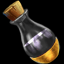
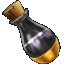
User can drag and drop inventory items

diff --git a/Client/core/src/pl/mmorpg/prototype/client/states/PlayState.java b/Client/core/src/pl/mmorpg/prototype/client/states/PlayState.java
@@ -21,7 +21,9 @@ import pl.mmorpg.prototype.client.input.InputProcessorAdapter;
 import pl.mmorpg.prototype.client.input.NullInputHandler;
 import pl.mmorpg.prototype.client.input.PlayInputContinuousHandler;
 import pl.mmorpg.prototype.client.input.PlayInputSingleHandle;
+import pl.mmorpg.prototype.client.items.Item;
 import pl.mmorpg.prototype.client.items.SmallHealthPotion;
+import pl.mmorpg.prototype.client.items.SmallManaPotion;
 import pl.mmorpg.prototype.client.objects.GameObject;
 import pl.mmorpg.prototype.client.objects.Player;
 import pl.mmorpg.prototype.client.resources.Assets;
@@ -29,6 +31,7 @@ import pl.mmorpg.prototype.client.states.dialogs.CustomDialogs;
 import pl.mmorpg.prototype.client.states.dialogs.InventoryDialog;
 import pl.mmorpg.prototype.client.states.dialogs.MenuDialog;
 import pl.mmorpg.prototype.client.states.dialogs.StatisticsDialog;
+import pl.mmorpg.prototype.client.states.dialogs.components.InventoryField;
 import pl.mmorpg.prototype.clientservercommon.packets.DisconnectPacket;
 import pl.mmorpg.prototype.clientservercommon.packets.entities.UserCharacterDataPacket;
 
@@ -46,6 +49,8 @@ public class PlayState implements State, GameObjectsContainer
 	private final InventoryDialog inventoryDialog = new InventoryDialog(this);
 	private StatisticsDialog statisticsDialog;
 	private final DialogManipulator dialogs = new DialogManipulator();
+	
+	private Item mouseHoldingItem = null;
 
 	private Dialog lastActiveDialog;
 
@@ -57,6 +62,7 @@ public class PlayState implements State, GameObjectsContainer
 		inputMultiplexer = new InputMultiplexer();
 		lastActiveDialog = inventoryDialog;
 		inventoryDialog.put(new SmallHealthPotion(), new Point(0, 0));
+		inventoryDialog.put(new SmallManaPotion(), new Point(0, 2));
 	}
 
 	public void initialize(UserCharacterDataPacket character)
@@ -94,8 +100,11 @@ public class PlayState implements State, GameObjectsContainer
 			object.render(batch);
 
 		batch.end();
-		stage.act();
 		stage.draw();
+		batch.begin();
+		if (mouseHoldingItem != null)
+			mouseHoldingItem.render(batch);
+		batch.end();
 	}
 
 	@Override
@@ -202,6 +211,26 @@ public class PlayState implements State, GameObjectsContainer
 	public void userWantsToChangeCharacter()
 	{
 		throw new NotImplementedException();
+	}
+
+	public void inventoryButtonClicked(InventoryField inventoryField)
+	{
+		if(mouseHoldingItem == null)
+		{
+			mouseHoldingItem = inventoryField.getItem();
+			inventoryField.removeItem();
+		}
+		else if (!inventoryField.hasItem())
+		{
+			inventoryField.put(mouseHoldingItem);
+			mouseHoldingItem = null;
+		} else
+		{
+			Item newMouseItem = inventoryField.getItem();
+			inventoryField.put(mouseHoldingItem);
+			mouseHoldingItem = newMouseItem;
+		}
+
 	}
 
 }

diff --git a/Client/core/src/pl/mmorpg/prototype/client/states/dialogs/components/InventoryField.java b/Client/core/src/pl/mmorpg/prototype/client/states/dialogs/components/InventoryField.java
@@ -12,15 +12,18 @@ import pl.mmorpg.prototype.client.states.dialogs.Settings;
 
 public class InventoryField extends Button implements ItemContainer
 {
+	private static final Texture NULL_TEXTURE = Assets.get("nullTexture.png");
+
 	private final Sprite sprite;
 	private final SpriteDrawable drawable;
 	private final Image image;
 	private Item item = null;
 
+
 	public InventoryField()
 	{
 		super(Settings.DEFAULT_SKIN);
-		sprite = new Sprite((Texture) Assets.get("nullTexture.png"));
+		sprite = new Sprite(NULL_TEXTURE);
 		drawable = new SpriteDrawable(sprite);
 		image = new Image(drawable);
 		add(image);
@@ -62,5 +65,12 @@ public class InventoryField extends Button implements ItemContainer
 	public void setTexture(Texture texture)
 	{
 		sprite.setTexture(texture);
+	}
+
+	@Override
+	public void removeItem()
+	{
+		item = null;
+		sprite.setTexture(NULL_TEXTURE);
 	}
 }

diff --git a/Client/core/src/pl/mmorpg/prototype/client/items/Item.java b/Client/core/src/pl/mmorpg/prototype/client/items/Item.java
@@ -1,6 +1,8 @@
 package pl.mmorpg.prototype.client.items;
 
+import com.badlogic.gdx.Gdx;
 import com.badlogic.gdx.graphics.Texture;
+import com.badlogic.gdx.graphics.g2d.SpriteBatch;
 
 public abstract class Item
 {
@@ -14,5 +16,10 @@ public abstract class Item
 	public Texture getTexture()
 	{
 		return texture;
+	}
+
+	public void render(SpriteBatch batch)
+	{
+		batch.draw(texture, Gdx.input.getX() - 16, Gdx.graphics.getHeight() - Gdx.input.getY() - 16, 32, 32);
 	}
 }

diff --git a/Client/core/src/pl/mmorpg/prototype/client/items/SmallManaPotion.java b/Client/core/src/pl/mmorpg/prototype/client/items/SmallManaPotion.java
@@ -1,0 +1,20 @@
+package pl.mmorpg.prototype.client.items;
+
+import pl.mmorpg.prototype.client.objects.GameCharacter;
+import pl.mmorpg.prototype.client.resources.Assets;
+
+public class SmallManaPotion extends Potion
+{
+
+	public SmallManaPotion()
+	{
+		super(Assets.get(Assets.Textures.Items.SMALL_MANA_POTION));
+	}
+
+	@Override
+	public void use(GameCharacter character)
+	{
+
+	}
+
+}

diff --git a/Client/core/src/pl/mmorpg/prototype/client/resources/Assets.java b/Client/core/src/pl/mmorpg/prototype/client/resources/Assets.java
@@ -193,6 +193,7 @@ public class Assets
 		{
 			public static final String ITEM_FOLDER = "Items/";
 			public static final String SMALL_HEALTH_POTION = ITEM_FOLDER + "SmallHealthPotion.png";
+			public static final String SMALL_MANA_POTION = ITEM_FOLDER + "SmallManaPotion.png";
 		}
 	}
 }

diff --git a/Client/core/src/pl/mmorpg/prototype/client/states/dialogs/InventoryDialog.java b/Client/core/src/pl/mmorpg/prototype/client/states/dialogs/InventoryDialog.java
@@ -65,7 +65,7 @@ public class InventoryDialog extends CustomDialog
 
 	public void buttonClicked(Point cellPosition)
 	{
-		System.out.println(cellPosition);
+		linkedState.inventoryButtonClicked(inventoryFields.get(cellPosition));
 	}
 
 	public void put(Item item, Point position)

diff --git a/Client/core/src/pl/mmorpg/prototype/client/states/dialogs/components/ItemContainer.java b/Client/core/src/pl/mmorpg/prototype/client/states/dialogs/components/ItemContainer.java
@@ -11,4 +11,5 @@ public interface ItemContainer
 
 	Item getItem();
 
+	void removeItem();
 }
